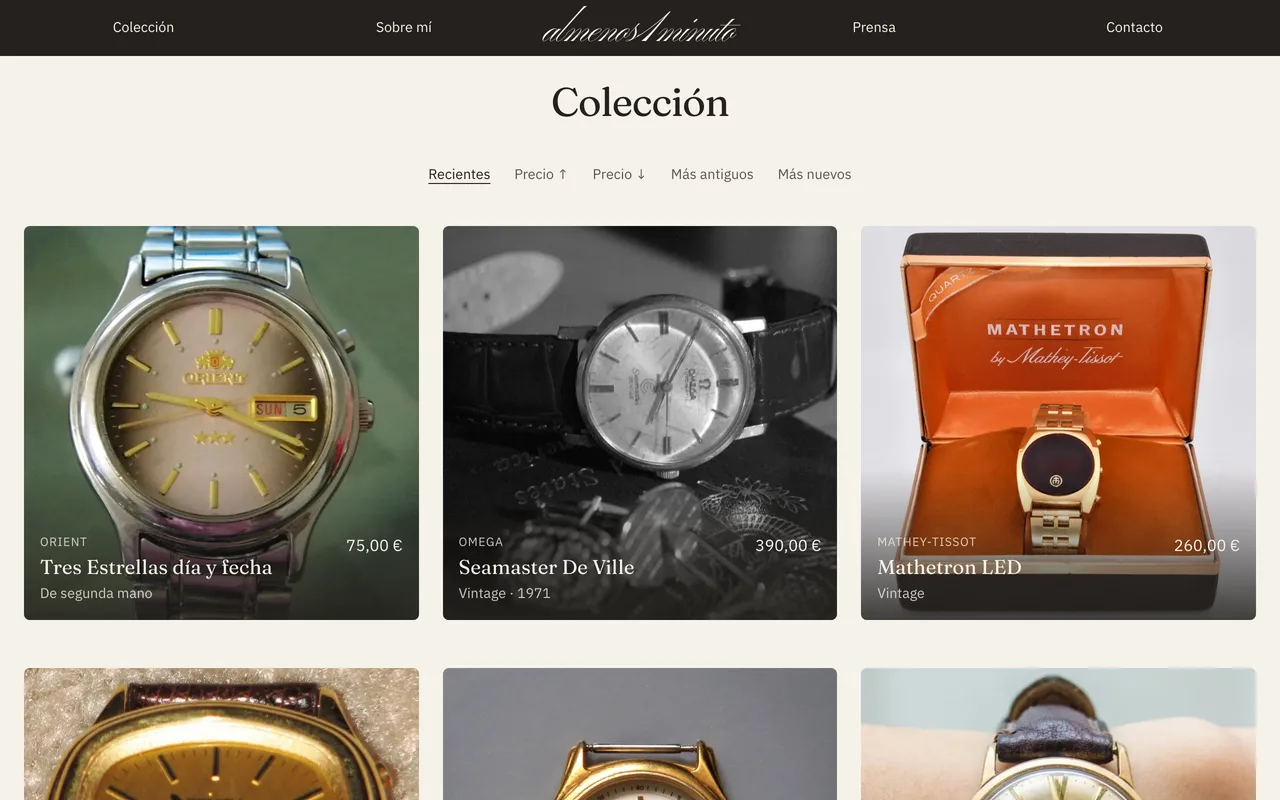
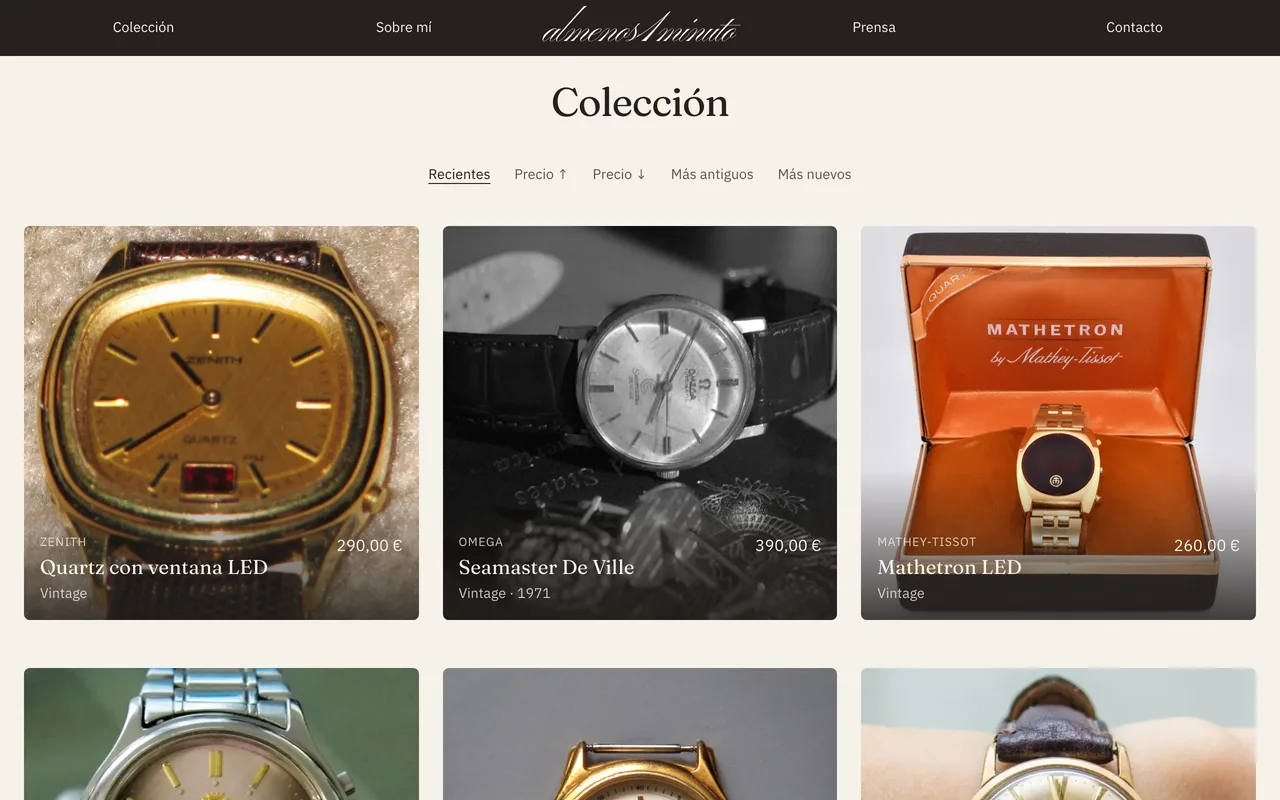
Mark the almenos1minuto CMS as shipped and refresh its screenshots

Changed region(s): [[0.0, 0.2812, 0.3438, 0.7812], [0.0, 0.8125, 0.3438, 1.0]]

diff --git a/src/lib/translations.ts b/src/lib/translations.ts
@@ -103,10 +103,10 @@ export const translations = {
       hebras_for: "Una artesana de ganchillo en Madrid que vende por Instagram y WhatsApp.",
       hebras_built: "Web de una sola página, pensada primero para el móvil: portada, colección con foto y precio de cada pieza, y contacto directo a Instagram y WhatsApp.",
       almenos_for: "Un coleccionista y divulgador relojero que vende piezas vintage y escribe para prensa especializada.",
-      almenos_built: "Catálogo ordenable con una ficha por reloj (año, estado, movimiento, precio), sección de prensa con sus artículos y enlaces a Instagram, YouTube y Vinted. En curso: un CMS a medida para subir relojes y artículos sin tocar código.",
+      almenos_built: "Catálogo ordenable con una ficha por reloj (año, estado, movimiento, precio), sección de prensa con sus artículos y enlaces a Instagram, YouTube y Vinted. Y un CMS a medida para subir relojes y artículos sin tocar código.",
       oidoo_for: "Cocinas profesionales: jefes de cocina y equipos que hoy trabajan en papel.",
       oidoo_built: "Producto propio de principio a fin: recetas con escandallo y food cost, los 14 alérgenos UE, checklists por estación, importación de recetas con IA y acceso para todo el equipo.",
-      almenos_desc: "Catálogo de relojes vintage con firma de divulgación relojera. Cada pieza con año, estado y precio a la vista; al lado, sus artículos en prensa especializada y enlaces a Instagram, YouTube y Vinted — una sola web que junta la tienda y la voz. Ahora construyendo un CMS a medida para que el cliente la gestione sin depender de mí.",
+      almenos_desc: "Catálogo de relojes vintage con firma de divulgación relojera. Cada pieza con año, estado y precio a la vista; al lado, sus artículos en prensa especializada y enlaces a Instagram, YouTube y Vinted — una sola web que junta la tienda y la voz. Con CMS a medida para que el cliente la gestione sin depender de mí.",
     },
     process: {
       subtitle: "Sin humo. Sin over-engineering. Producto que funciona.",
@@ -316,10 +316,10 @@ export const translations = {
       hebras_for: "A crochet maker in Madrid who sells through Instagram and WhatsApp.",
       hebras_built: "A one-page site, mobile first: hero, a collection with a photo and price for every piece, and contact straight to Instagram and WhatsApp.",
       almenos_for: "A watch collector and writer who sells vintage pieces and writes for the specialist press.",
-      almenos_built: "A sortable catalogue with a page per watch (year, condition, movement, price), a press section for the published articles, and links to Instagram, YouTube and Vinted. In progress: a custom CMS so new watches and articles go live without touching code.",
+      almenos_built: "A sortable catalogue with a page per watch (year, condition, movement, price), a press section for the published articles, and links to Instagram, YouTube and Vinted. Plus a custom CMS so new watches and articles go live without touching code.",
       oidoo_for: "Professional kitchens: head chefs and teams still running on paper.",
       oidoo_built: "My own product end to end: recipes with costing and food cost, the 14 EU allergens, station checklists, AI recipe import, and access for the whole team.",
-      almenos_desc: "A vintage watch catalogue for a horology writer. Every piece shows its year, condition and price up front; alongside sit the pieces written for the specialist press and links to Instagram, YouTube and Vinted — one site that brings the shop and the voice together. Now building a custom CMS so the client runs it without me.",
+      almenos_desc: "A vintage watch catalogue for a horology writer. Every piece shows its year, condition and price up front; alongside sit the pieces written for the specialist press and links to Instagram, YouTube and Vinted — one site that brings the shop and the voice together. With a custom CMS so the client runs it without me.",
     },
     process: {
       subtitle: "No fluff. No over-engineering. Product that works.",
